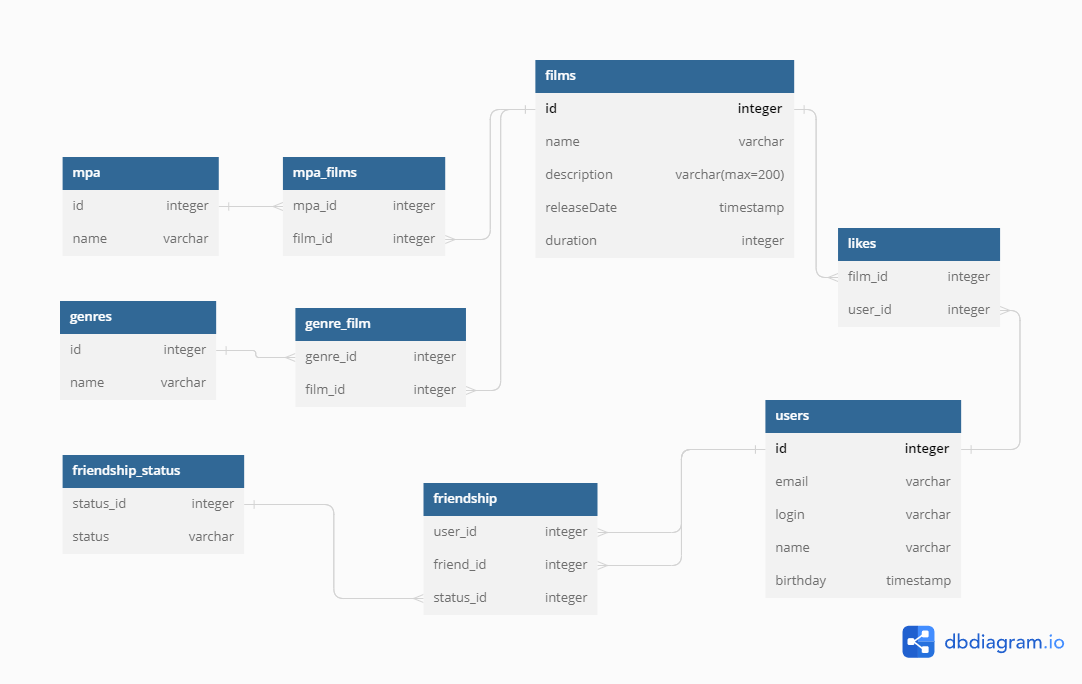
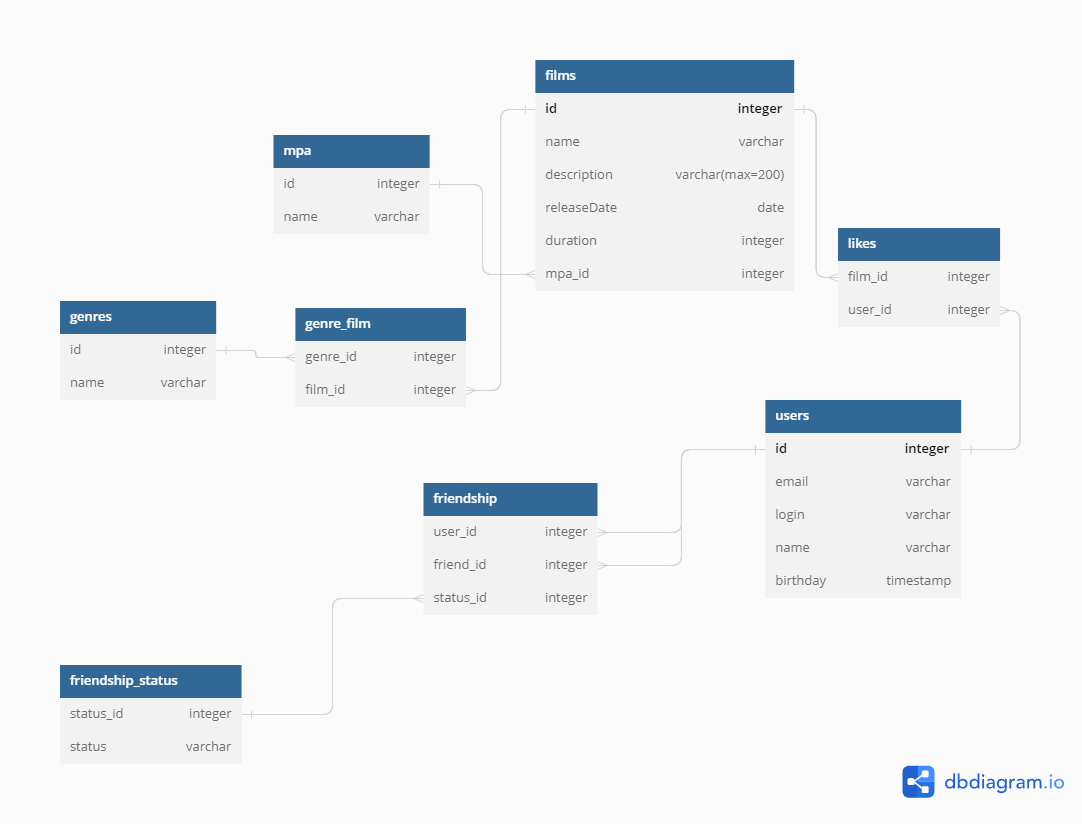
проверка 2

diff --git a/README.md b/README.md
@@ -34,9 +34,10 @@ WHERE user_id IN (SELECT friend_id FROM friendship WHERE user_id = ?);
 
 Получение списка из наиболее популярных фильмов:
  ``` 
- SELECT f.film_id, film_name, description, release_date, duration, mpa_rate_id FROM films AS f
-LEFT JOIN films_likes AS fl ON f.film_id = fl.film_id
-GROUP BY f.film_id
+ SELECT id, name, description, release_date, duration, mpa_id 
+ FROM films AS f
+JOIN likes AS fl ON f.id = fl.film_id
+GROUP BY f.id
 ORDER BY COUNT(fl.user_id) DESC
 LIMIT ? 
  ``` 
